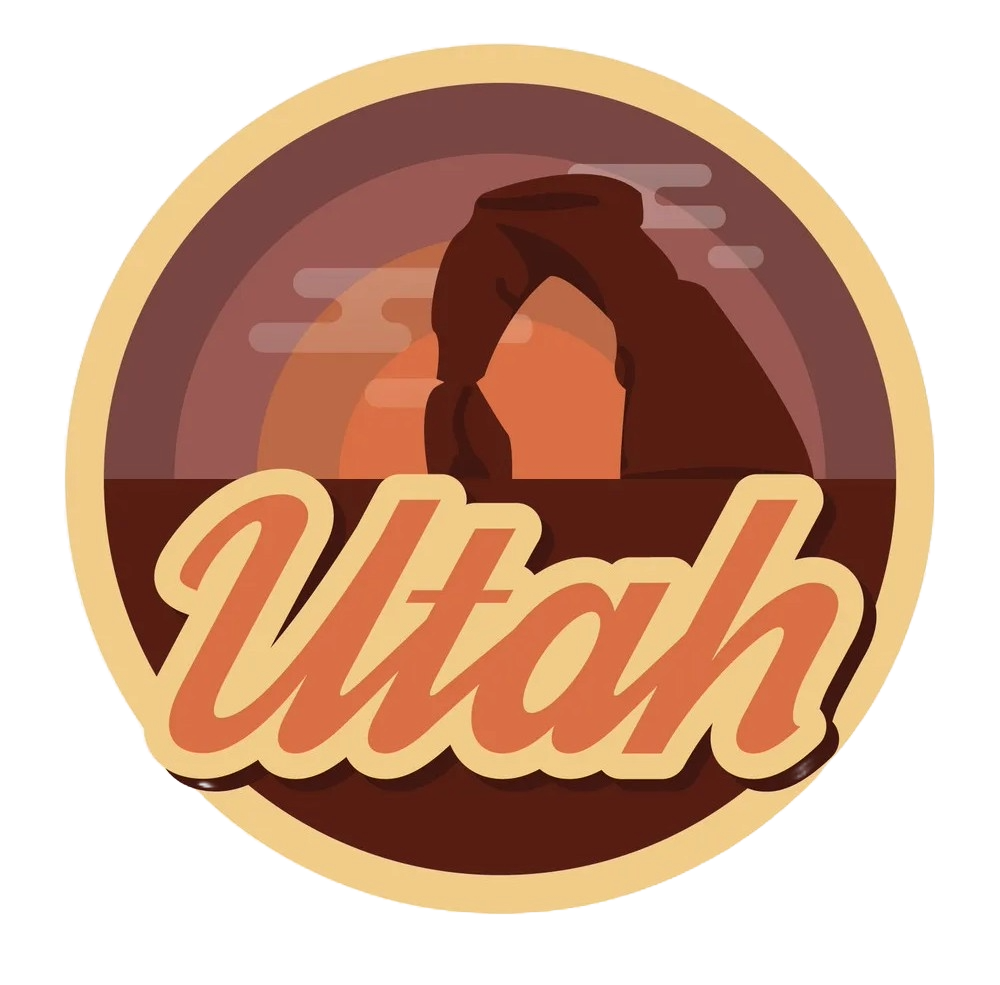
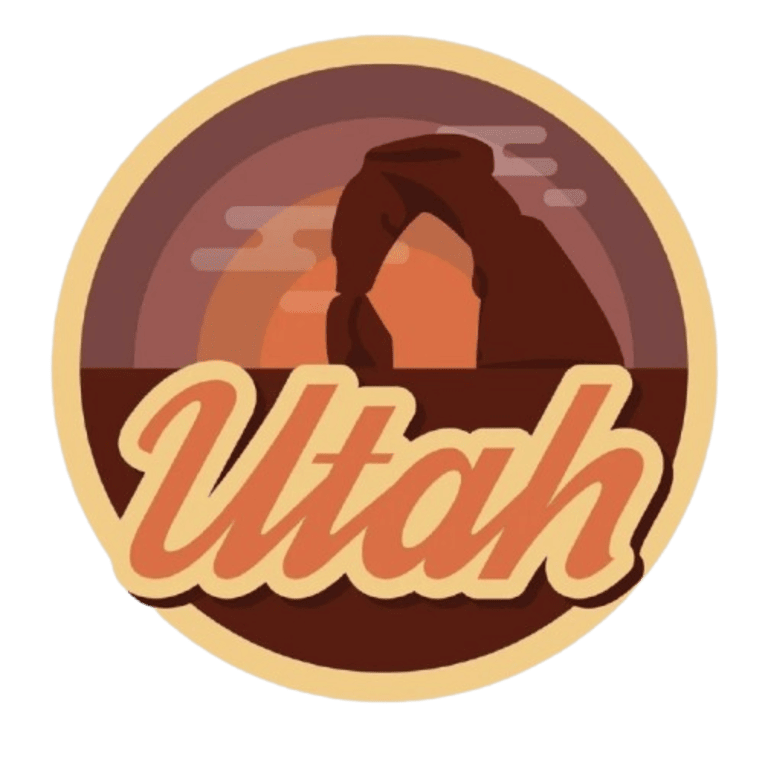
image sizes

diff --git a/chamber/directory.html b/chamber/directory.html
@@ -24,7 +24,7 @@
 </head>
 <body>
     <header>
-        <img src="images/Utah.png" alt="Utah" width="90" >
+        <img src="images/utah.png" alt="Utah" width="90" >
         <div>
         <span>Utah</span>
         <div>Chamber of Commerce</div>
